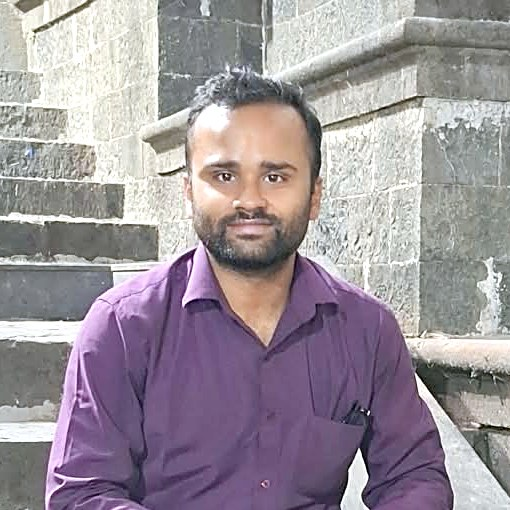
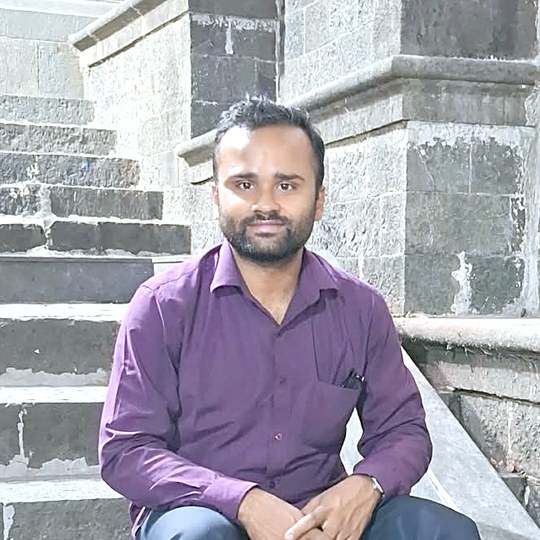
Portrait: wider crop with more background, brighter and cooler

diff --git a/_layouts/default.html b/_layouts/default.html
@@ -2,7 +2,7 @@
 {% assign page_title = page.title | default: site.name %}
 {% if page.title %}{% assign full_title = page.title | append: " · " | append: site.name %}{% else %}{% assign full_title = site.name | append: " · " | append: site.tagline %}{% endif %}
 {% assign page_desc = page.description | default: site.description %}
-{% assign og_image = "/assets/img/laxmikanta-sarangi-2026-square.jpg?v=2" | prepend: site.baseurl | prepend: site.url %}
+{% assign og_image = "/assets/img/laxmikanta-sarangi-2026-square.jpg?v=3" | prepend: site.baseurl | prepend: site.url %}
 <!DOCTYPE html>
 <html lang="en">
 <head>

diff --git a/index.html b/index.html
@@ -37,7 +37,7 @@ description: "Laxmikanta Sarangi — Ph.D. scholar in Economics at IIT Roorkee. 
 
   <figure class="hero-photo">
     <div class="arch">
-      <img src="{{ '/assets/img/laxmikanta-sarangi-2026.jpg?v=2' | prepend: site.baseurl }}"
+      <img src="{{ '/assets/img/laxmikanta-sarangi-2026.jpg?v=3' | prepend: site.baseurl }}"
            alt="Portrait of Laxmikanta Sarangi, seated on stone steps" width="540" height="675">
     </div>
   </figure>
